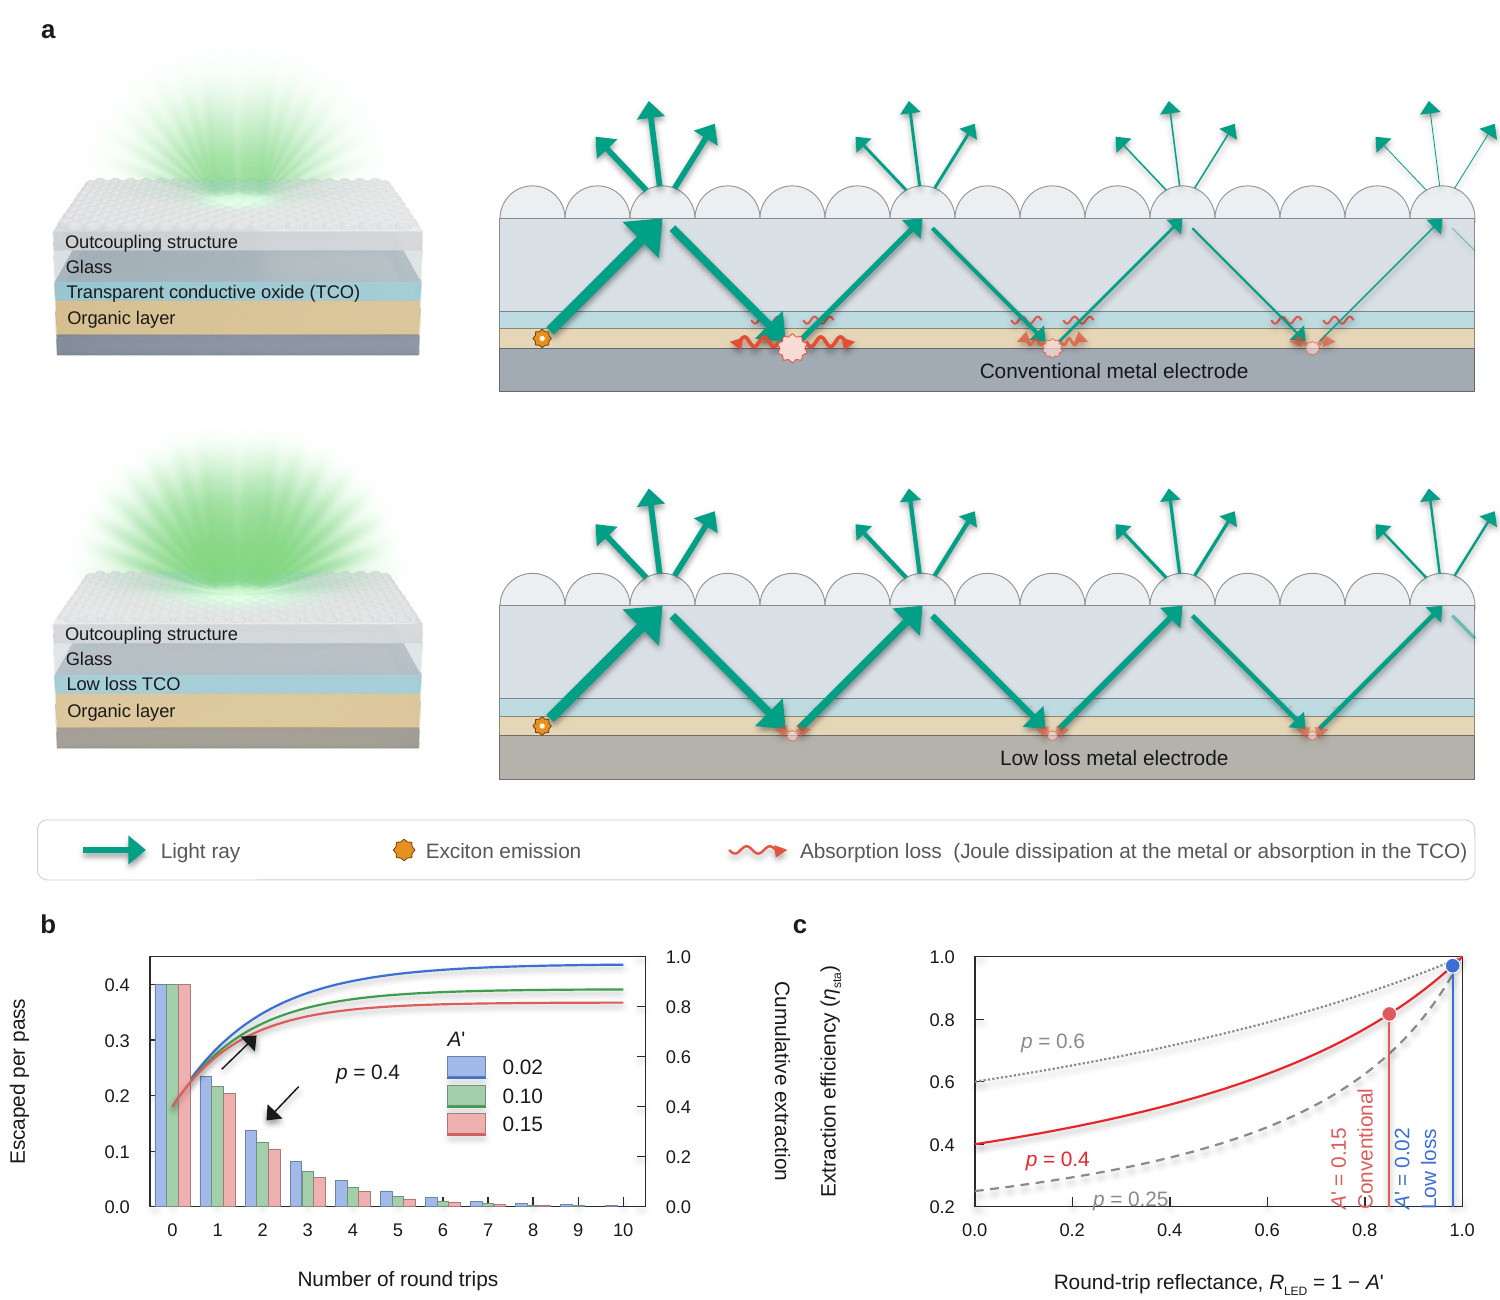
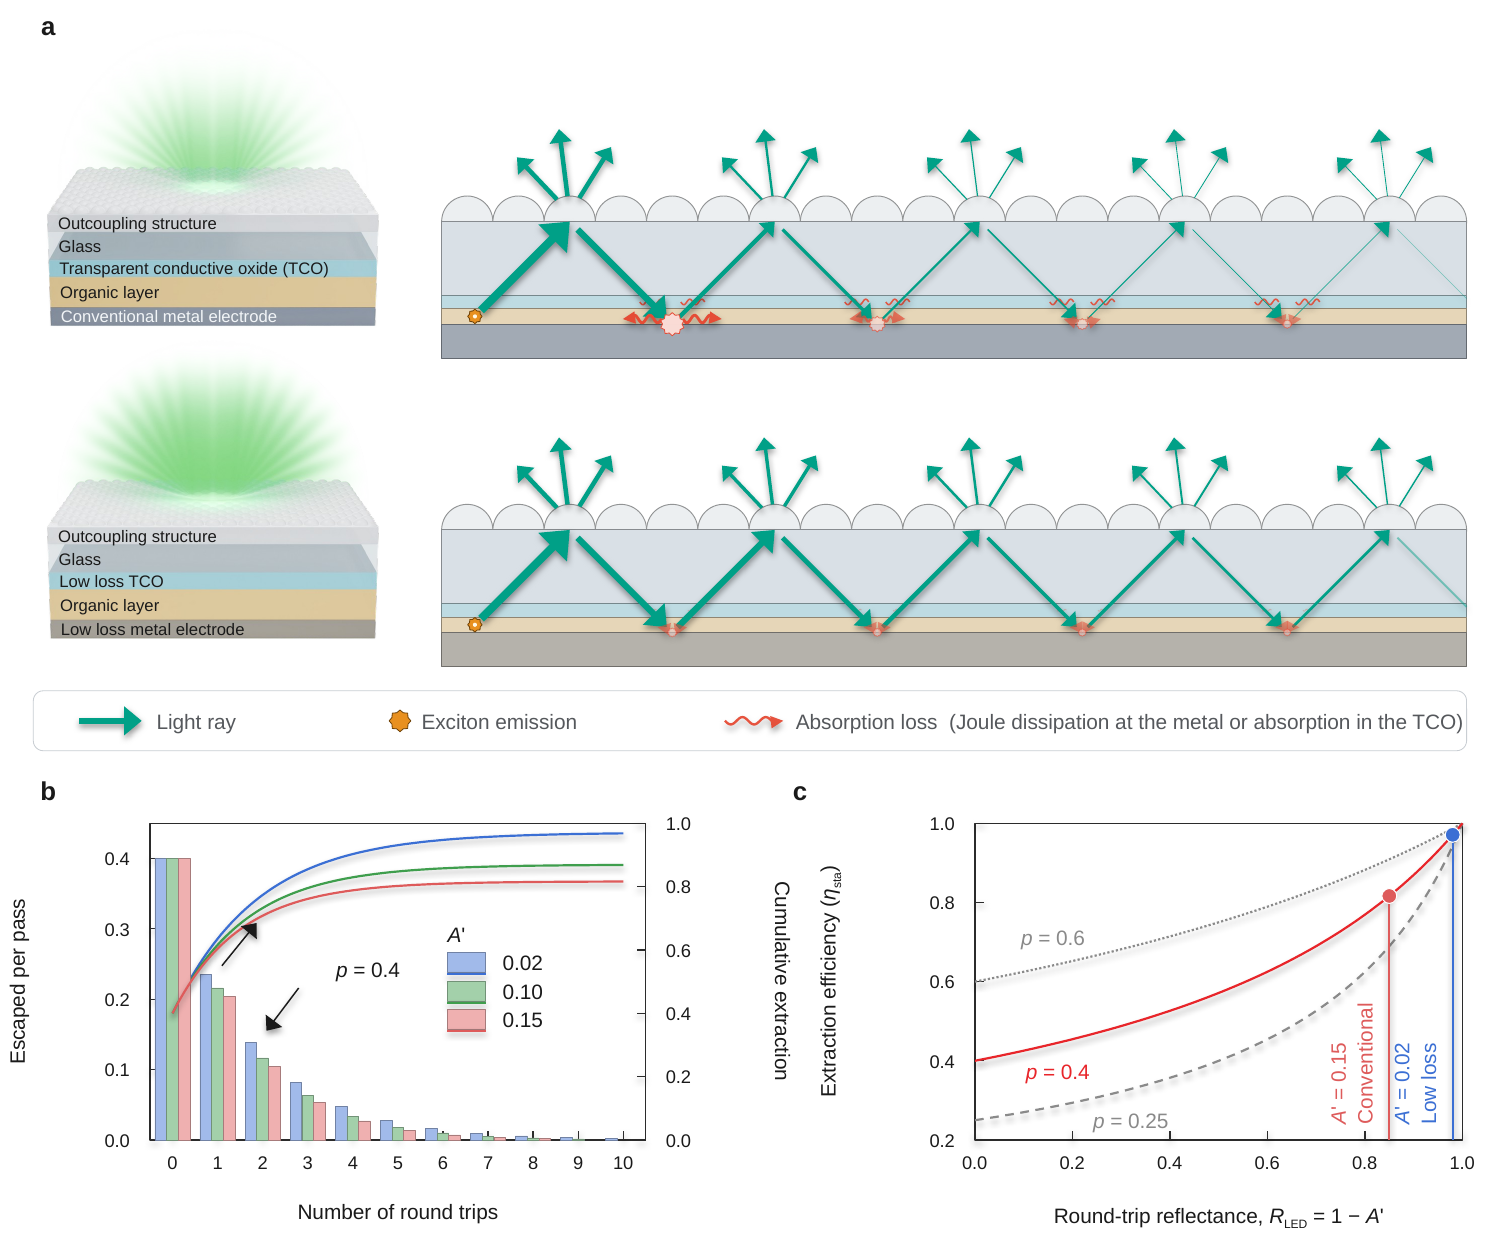
Slim panel (a) down, and name the metal in the render again
A stack diagram with one band left blank reads as an omission, which is worse
than the repetition it was avoiding, so all five layer names go back in the
render and the cross-section carries none.

The panel was also simply too big. The cross-section now runs wider and
shallower -- five lens hits and four metal bounces -- so the width buys another
round trip, which is what the panel is about, instead of bigger domes and
fatter arrows. The rows sit closer than a render is tall, since a render's top
strip is glow below 8% alpha and two may overlap there. (a) drops from 68% to
58% of the figure's height.

Claude-Session: https://claude.ai/code/session_014A61zHZtLZU5uPXAWC8gtS

diff --git a/figures/make_full_figure_pptx.py b/figures/make_full_figure_pptx.py
@@ -33,7 +33,7 @@ from pptx.enum.dml import MSO_LINE_DASH_STYLE as DASH
 from pptx.oxml.ns import qn
 
 # ------------------------------------------------------------------ canvas
-W, H = 1800.0, 1560.0                  # figure units; 1800 across = 180 mm printed
+W, H = 1800.0, 1500.0                  # figure units; 1800 across = 180 mm printed
 SLIDE_W = Inches(10.0)
 SLIDE_H = Inches(10.0 * H / W)
 SCALE = SLIDE_W / W                    # EMU per figure unit
@@ -45,6 +45,7 @@ def PTS(u): return Pt(u * SCALE / 12700.0)
 
 # text: three sizes in the whole figure and no more
 T_LAB, T_TICK, T_LETTER = 25.0, 22.0, 31.0
+T_3D = 20.0                            # inside the renders: bounded by the band width
 
 # ------------------------------------------------------------------ palette
 def C(h): return RGBColor.from_string(h.lstrip("#").upper())
@@ -75,15 +76,28 @@ BAR = tuple(mix(c, 0.52) for c in (BLU, GRN, RED))
 GREY = "8A8A8A"
 
 # ------------------------------------------------------------------ layout
-SX = 1.30                                    # cross-section scale, F units -> figure
-CROSS_X = 600.0
-PW_S = F.PW * SX                             # 1170 -> right edge 1770
-RW = 480.0                                   # 3D render, square
-RX = 45.0
-YB = (470.0, 935.0)                          # slab bottom of each row
-LEG_Y = 1020.0
-BX, BY, BW_, BH_ = 180.0, 1148.0, 595.0, 300.0        # panel b plot box
-CX_, CY_, CW_, CH_ = 1170.0, 1148.0, 585.0, 300.0     # panel c plot box
+# One more round trip across a wider, shallower cross-section: the extra pass is
+# what the panel is about, and spending the width on it instead of on scale is
+# what lets (a) shrink.  Lens centres are PITCH*k + LENS_R and the zig-zag period
+# is twice the glass-to-metal drop, so the hit lists stay on lens centres.
+PW_F = 1200.0                                # 20 lenses, 5 lens hits, 4 bounces
+HIT_TOP = [150.0, 390.0, 630.0, 870.0, 1110.0]
+HIT_METAL = [270.0, 510.0, 750.0, 990.0]
+NP = len(HIT_TOP)
+X_EMIT = HIT_TOP[0] - (F.Y_EMIT - F.Y_TOP) * F.TAN
+
+SX = 1.025                                   # cross-section scale, F units -> figure
+CROSS_X = 530.0                              # 1230 wide -> right edge 1760
+RW = 430.0                                   # 3D render, square
+RX = 40.0
+YB = (430.0, 800.0)                          # slab bottom of each row.  The pitch is
+                                             # less than RW on purpose: a render's top
+                                             # strip is glow below 8% alpha, so two may
+                                             # overlap there and a row need not be as
+                                             # tall as a square render
+LEG_Y = 865.0
+BX, BY, BW_, BH_ = 180.0, 988.0, 595.0, 380.0         # panel b plot box
+CX_, CY_, CW_, CH_ = 1170.0, 988.0, 585.0, 380.0      # panel c plot box
 
 P_ESC = 0.40                                 # escape probability per pass
 A_SET = (0.02, 0.10, 0.15)                   # round-trip absorption, panel b
@@ -213,57 +227,57 @@ def text(cx, cy, runs, size, color, align=PP_ALIGN.CENTER, bold=False,
     return tb
 
 # ================================================================== panel a
-def row(i, eta, r_met, t_tco, metal_name, tag):
+def row(i, eta, r_met, t_tco, tag):
     yb, met = YB[i], MET_F[i]
     def fx(u): return CROSS_X + u * SX
     def fy(v): return yb + (v - F.Y_BOT) * SX
     def fd(d): return d * SX
 
     # --- micro-lens domes, then the slab over their lower halves
-    for k in range(int(F.PW / F.PITCH)):
+    for k in range(int(PW_F / F.PITCH)):
         cx = F.PITCH * k + F.LENS_R
         oval(fx(cx - F.LENS_R), fy(F.Y_TOP - F.LENS_R), fd(2 * F.LENS_R),
              fd(2 * F.LENS_R), LENS_F, shade(LENS_F, LINE_K), 1.1,
              "%s lens %02d" % (tag, k + 1))
-    rect(fx(0), fy(F.Y_TOP), fd(F.PW), fd(F.Y_TCO - F.Y_TOP), GLASS_F,
+    rect(fx(0), fy(F.Y_TOP), fd(PW_F), fd(F.Y_TCO - F.Y_TOP), GLASS_F,
          shade(GLASS_F, LINE_K), 1.3, name="%s glass" % tag)
     for y1, y2, fl, nm in ((F.Y_TCO, F.Y_ORG, TCO_F, "TCO"),
                            (F.Y_ORG, F.Y_MET, ORG_F, "organic"),
                            (F.Y_MET, F.Y_BOT, met, "metal")):
-        rect(fx(0), fy(y1), fd(F.PW), fd(y2 - y1), fl, shade(fl, LINE_K), 1.1,
+        rect(fx(0), fy(y1), fd(PW_F), fd(y2 - y1), fl, shade(fl, LINE_K), 1.1,
              name="%s %s" % (tag, nm))
 
     # --- radiometry (same formulas as the SVG)
     I, sg, esc, loss = 1.0, [], [], []
-    for k in range(4):
+    for k in range(NP):
         sg.append(I); esc.append(I * eta); I *= (1 - eta)
-        if k < 3:
+        if k < NP - 1:
             I *= t_tco; loss.append(I * (1 - r_met)); I *= r_met; I *= t_tco
     wid = [F.W_RAY * v ** 0.75 * SX for v in sg]
     kept = (1 - eta) ** 0.75
 
     tl = 1.0 - t_tco
     tw, ta = 10.0 + 180.0 * tl, 1.0 + 22.0 * tl
-    for n, xm in enumerate(F.HIT_METAL):
+    for n, xm in enumerate(HIT_METAL):
         for j, sgn in enumerate((-1, 1)):
             wave(fx(xm + sgn * 24 - tw / 2), fy(F.Y_TCO + 8), fd(tw), fd(ta), 2,
                  LOSS, (0.9 + 9.0 * tl) * SX, min(1.0, 0.25 + 6.5 * tl),
                  name="%s TCO loss %d%s" % (tag, n + 1, "LR"[j]))
 
-    seg((fx(F.X_EMIT + 7.1), fy(F.Y_EMIT - 7.1)), (fx(F.HIT_TOP[0]), fy(F.Y_TOP)),
+    seg((fx(X_EMIT + 7.1), fy(F.Y_EMIT - 7.1)), (fx(HIT_TOP[0]), fy(F.Y_TOP)),
         RAY, wid[0], True, name="%s ray emit" % tag)
-    for k in range(3):
-        seg((fx(F.HIT_TOP[k] + 9.2), fy(F.Y_TOP + 9.2)),
-            (fx(F.HIT_METAL[k] - 6.4), fy(F.Y_MET - 6.4)), RAY, wid[k] * kept, True,
+    for k in range(NP - 1):
+        seg((fx(HIT_TOP[k] + 9.2), fy(F.Y_TOP + 9.2)),
+            (fx(HIT_METAL[k] - 6.4), fy(F.Y_MET - 6.4)), RAY, wid[k] * kept, True,
             name="%s ray down %d" % (tag, k + 1))
-        seg((fx(F.HIT_METAL[k] + 6.4), fy(F.Y_MET - 6.4)),
-            (fx(F.HIT_TOP[k + 1]), fy(F.Y_TOP)), RAY, wid[k + 1], True,
+        seg((fx(HIT_METAL[k] + 6.4), fy(F.Y_MET - 6.4)),
+            (fx(HIT_TOP[k + 1]), fy(F.Y_TOP)), RAY, wid[k + 1], True,
             name="%s ray up %d" % (tag, k + 1))
-    seg((fx(F.HIT_TOP[3] + 9), fy(F.Y_TOP + 9)),
-        (fx(F.PW), fy(F.Y_TOP + F.PW - F.HIT_TOP[3])), RAY, wid[3] * kept,
+    seg((fx(HIT_TOP[-1] + 9), fy(F.Y_TOP + 9)),
+        (fx(PW_F), fy(F.Y_TOP + PW_F - HIT_TOP[-1])), RAY, wid[-1] * kept,
         False, 0.45, name="%s ray continues" % tag)
 
-    for k, xl in enumerate(F.HIT_TOP):
+    for k, xl in enumerate(HIT_TOP):
         fw = max(1.0, 0.55 * wid[k])
         for j, (phi, ln_) in enumerate(((-30, 68), (-5, 79), (22, 70))):
             a, b = math.radians(phi), math.radians(phi * 1.45)
@@ -272,7 +286,7 @@ def row(i, eta, r_met, t_tco, metal_name, tag):
                 (fx(o[0] + ln_ * math.sin(b)), fy(o[1] - ln_ * math.cos(b))),
                 RAY, fw, True, name="%s escaping %d-%d" % (tag, k + 1, j + 1))
 
-    for k, xm in enumerate(F.HIT_METAL):
+    for k, xm in enumerate(HIT_METAL):
         v = loss[k]
         r = 3.0 + 30.0 * v ** 0.6
         op = 0.5 + 0.5 * min(1.0, v / 0.18)
@@ -282,14 +296,10 @@ def row(i, eta, r_met, t_tco, metal_name, tag):
                  "%s ohmic loss %d%s" % (tag, k + 1, "LR"[j]))
         star(fx(xm), fy(F.Y_MET), fd(r), MSO_SHAPE.STAR_10_POINT, BURST, LOSS, op,
              1.0, "%s absorption %d" % (tag, k + 1))
-    star(fx(F.X_EMIT), fy(F.Y_EMIT), fd(8.5), MSO_SHAPE.STAR_8_POINT, EMIT,
+    star(fx(X_EMIT), fy(F.Y_EMIT), fd(8.5), MSO_SHAPE.STAR_8_POINT, EMIT,
          EMIT_EDGE, None, 1.0, "%s emitter" % tag)
-    oval(fx(F.X_EMIT) - D(2.4 * SX) / SCALE, fy(F.Y_EMIT) - D(2.4 * SX) / SCALE,
+    oval(fx(X_EMIT) - D(2.4 * SX) / SCALE, fy(F.Y_EMIT) - D(2.4 * SX) / SCALE,
          fd(4.8), fd(4.8), "FFF8E6", None, name="%s emitter core" % tag)
-
-    # --- the electrode is named once per row, here, where there is room
-    text(fx(F.PW * 0.63), fy((F.Y_MET + F.Y_BOT) / 2.0), metal_name, T_LAB,
-         "15191D", w=760.0, name="%s metal name" % tag)
 
     # --- the 3D render, bottom edge on the cross-section's baseline
     crop = F.render_crop(tag)
@@ -300,11 +310,10 @@ def row(i, eta, r_met, t_tco, metal_name, tag):
         (bx, by, side), src_w = F._CROP[tag]
         k = RW / side
         for lab in F.render_labels_raw(tag):
-            if "electrode" in lab["text"]:
-                continue                      # already named in the cross-section
             lx = RX + (lab["x"] * src_w - bx) * k
             ly = ry + 0.015 * RW + (lab["y"] * src_w - by) * k
-            text(lx + 330.0, ly, lab["text"], T_TICK, INK, PP_ALIGN.LEFT,
+            text(lx + 330.0, ly, lab["text"], T_3D,
+                 "F2F5F8" if lab["light"] else INK, PP_ALIGN.LEFT,
                  w=660.0, name="%s: %s" % (tag, lab["text"]))
     return sum(esc)
 
@@ -316,11 +325,11 @@ def _raw(tag):
     return json.load(open(p, encoding="utf-8")) if os.path.exists(p) else []
 F.render_labels_raw = _raw
 
-e1 = row(0, .30, .72, .90, "Conventional metal electrode", "conventional")
-e2 = row(1, .30, .98, .995, "Low loss metal electrode", "designrule")
+e1 = row(0, .30, .72, .90, "conventional")
+e2 = row(1, .30, .98, .995, "designrule")
 
 # ------------------------------------------------------------------ legend
-style(SH.add_shape(MSO_SHAPE.ROUNDED_RECTANGLE, X(RX), Y(LEG_Y - 36), D(1770 - RX),
+style(SH.add_shape(MSO_SHAPE.ROUNDED_RECTANGLE, X(RX), Y(LEG_Y - 36), D(1760 - RX),
                    D(72)), "FFFFFF", "C9CED3", 1.0, None, "legend frame")
 seg((RX + 55, LEG_Y), (RX + 130, LEG_Y), RAY, 7.0, True, name="legend ray")
 text(RX + 148 + 150, LEG_Y, "Light ray", T_LAB, MUTED, PP_ALIGN.LEFT, w=300.0,
@@ -452,7 +461,7 @@ panel_b()
 panel_c()
 
 # ------------------------------------------------------------------ letters
-for lx, ly, s in ((28, 34, "a"), (28, 1108, "b"), (930, 1108, "c")):
+for lx, ly, s in ((28, 30, "a"), (28, 948, "b"), (930, 948, "c")):
     text(lx + 30, ly, s, T_LETTER, INK, bold=True, w=90.0, name="panel %s" % s)
 
 dest = os.path.join(os.path.dirname(os.path.abspath(__file__)), "figure1_layout.pptx")

diff --git a/figures/README.md b/figures/README.md
@@ -544,7 +544,7 @@ python3 figures/denoise_renders.py figures/emitting_area_render*.png
 
 Built by `make_full_figure_pptx.py`. A mock-up of the layout argued for in review:
 panel (a) across the full width, (b) and (c) side by side underneath. One slide,
-267 shapes, nothing grouped; only the two 3D renders are pictures.
+297 shapes, nothing grouped; only the two 3D renders are pictures.
 
 Three things differ from the draft it is answering, and they are the point of it:
 
@@ -558,10 +558,19 @@ Three things differ from the draft it is answering, and they are the point of it
 * **Three text sizes in the whole figure**: 25 units for every label and axis
   title, 22 for tick numbers and the layer names inside the renders, 31 bold for
   the panel letters. At 180 mm wide that is 7.1 / 6.2 / 8.8 pt.
-* **Each layer is named once.** The electrode is named in the cross-section,
-  where there is room, so the render carries only the four layers above it — and
-  the render then fits at 480 units square with its slab bottom on the
-  cross-section's baseline, which is what makes a row read as one scene.
+* **Each layer is named once, in the render.** Leaving the metal band blank in a
+  stack diagram reads as an omission, which is worse than the repetition it
+  avoids, so all five names are in the render and the cross-section carries none.
+  The render sits with its slab bottom on the cross-section's baseline, which is
+  what makes a row read as one scene.
+
+Panel (a) is deliberately not scaled up to fill the height it is given. The
+cross-section runs 1200 units wide at a scale of 1.025 — five lens hits and four
+metal bounces instead of four and three — so the extra width buys another round
+trip rather than bigger domes and fatter arrows. The two rows sit 370 apart
+although each render is 430 square: a render's top strip is glow below 8% alpha,
+so the renders may overlap there and a row need not be as tall as a square
+picture. Together that puts (a) at 58% of the figure's height instead of 68%.
 
 (b) and (c) are computed from the same round-trip model as (a):
 escaped on pass *n* = `p·[(1−p)(1−A′)]ⁿ`, cumulative `p(1−rⁿ⁺¹)/(1−r)`, and
